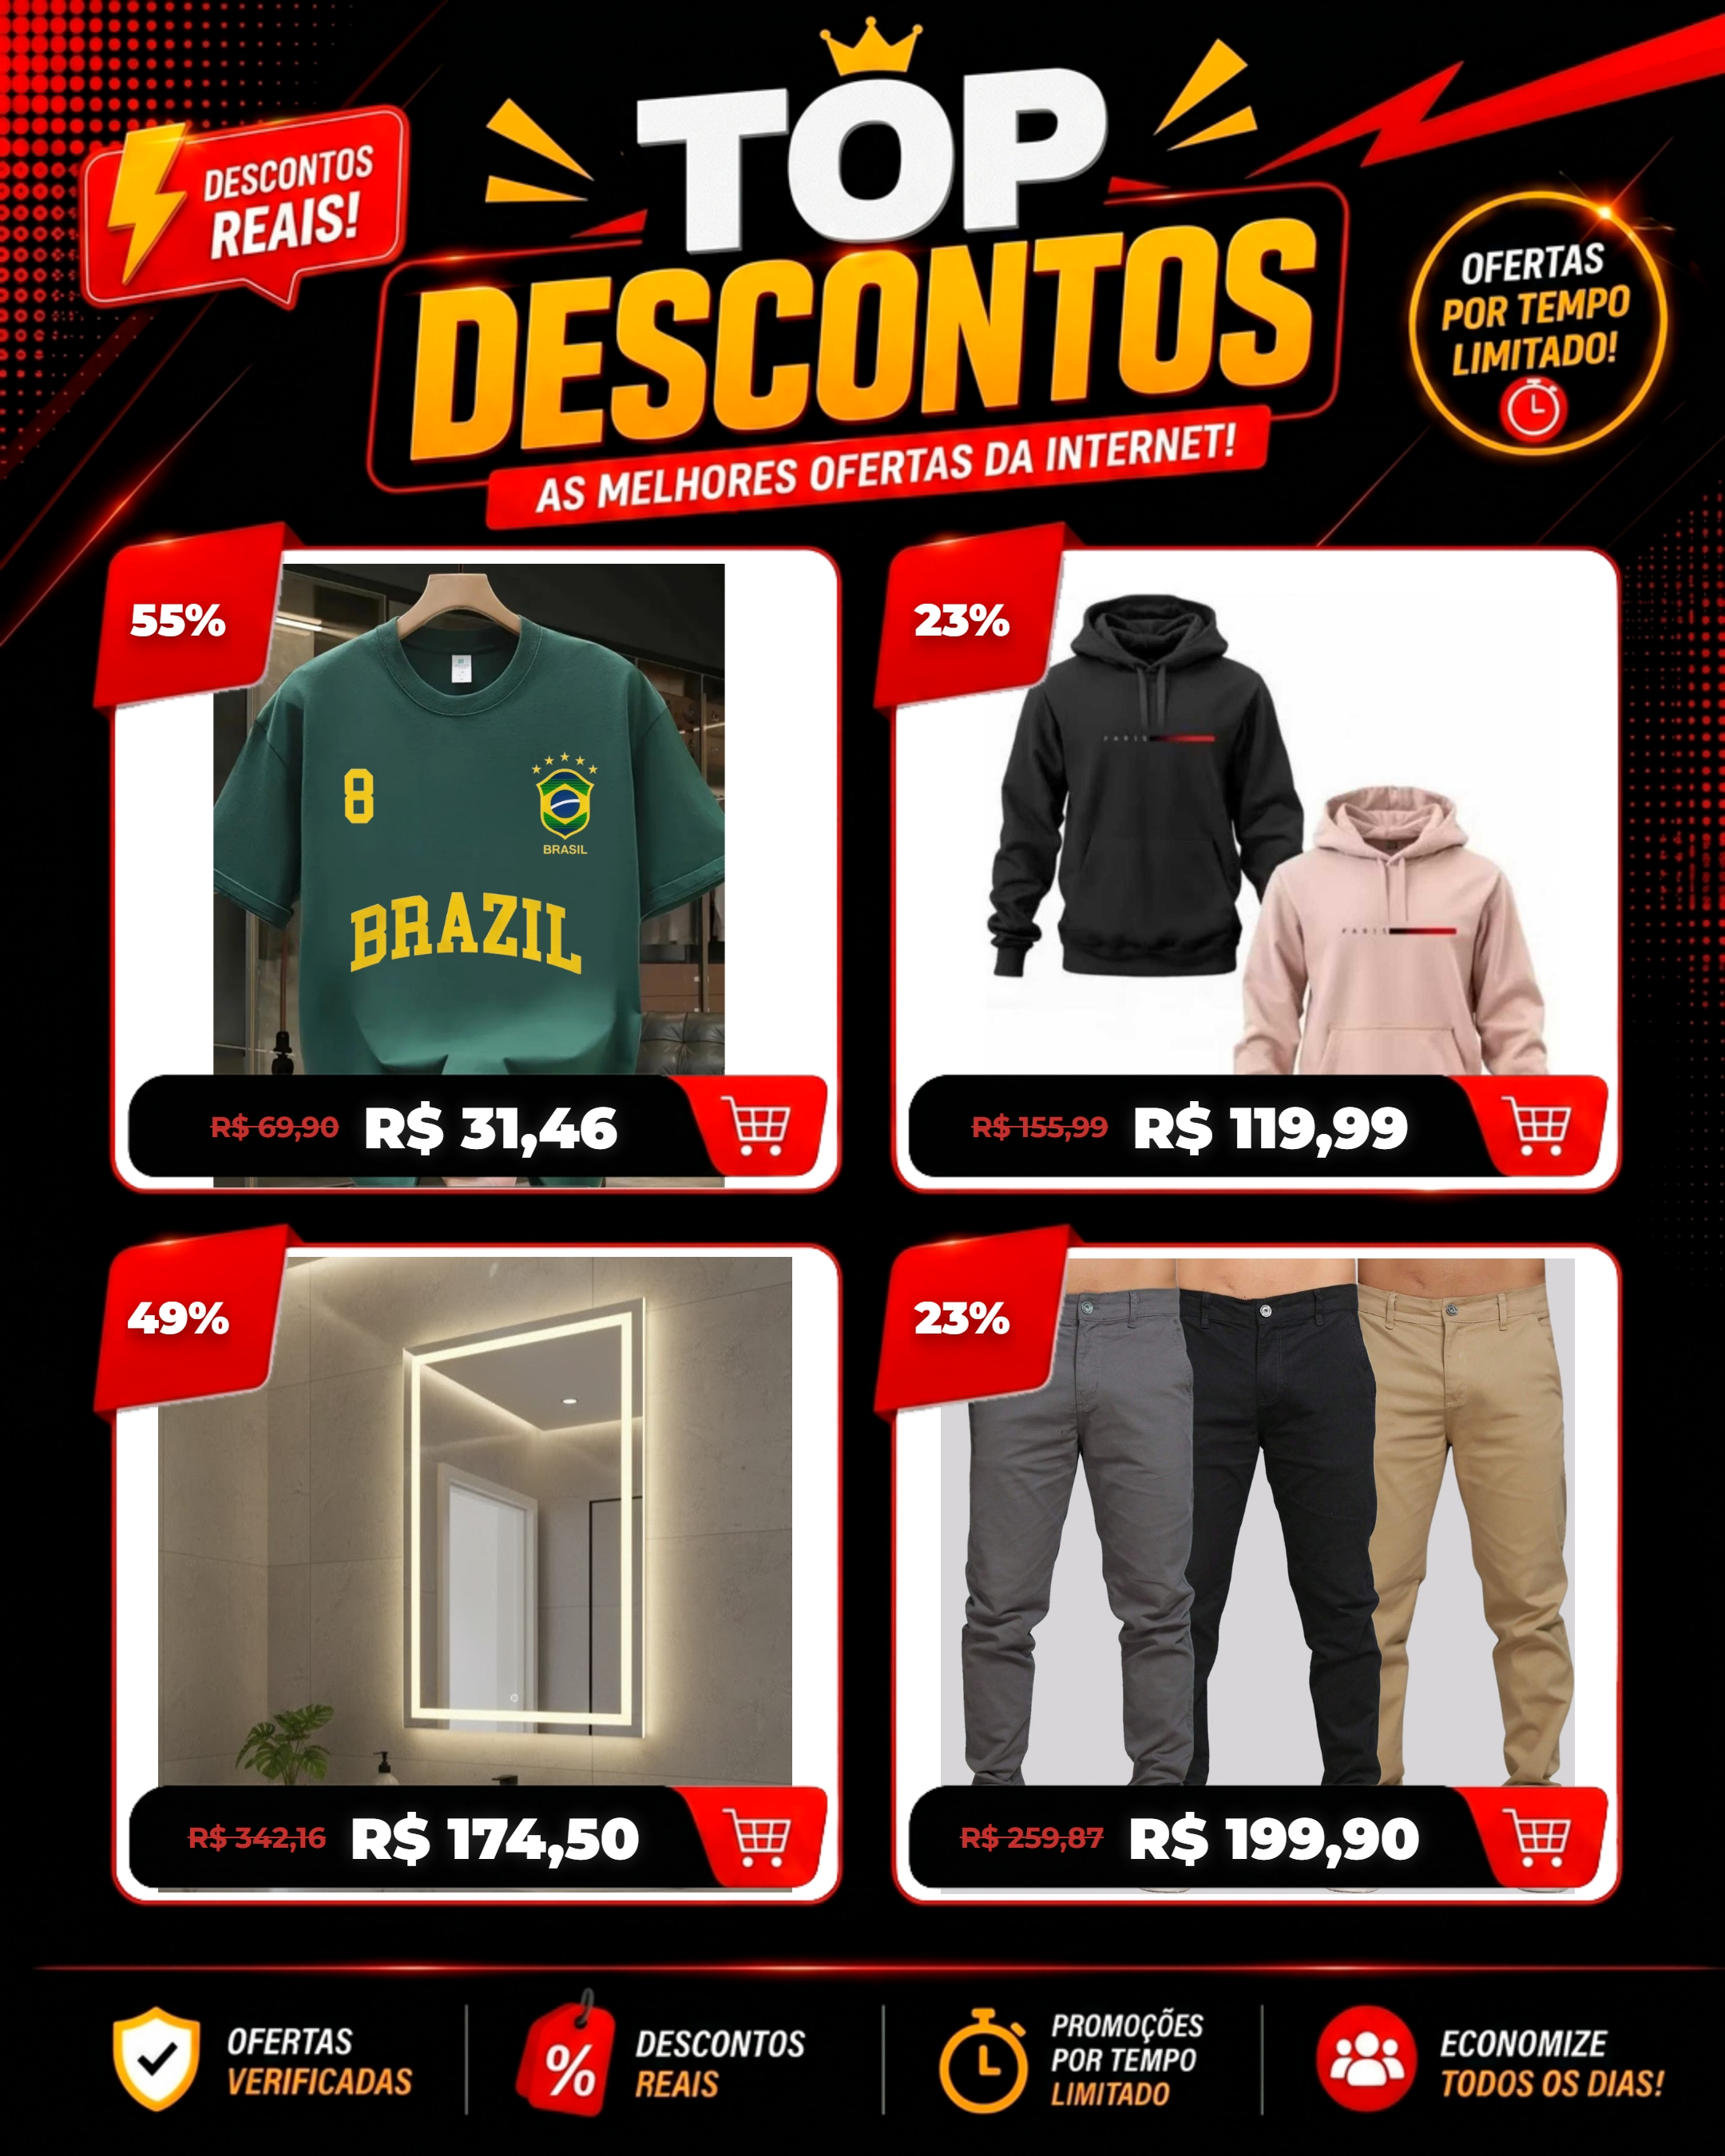
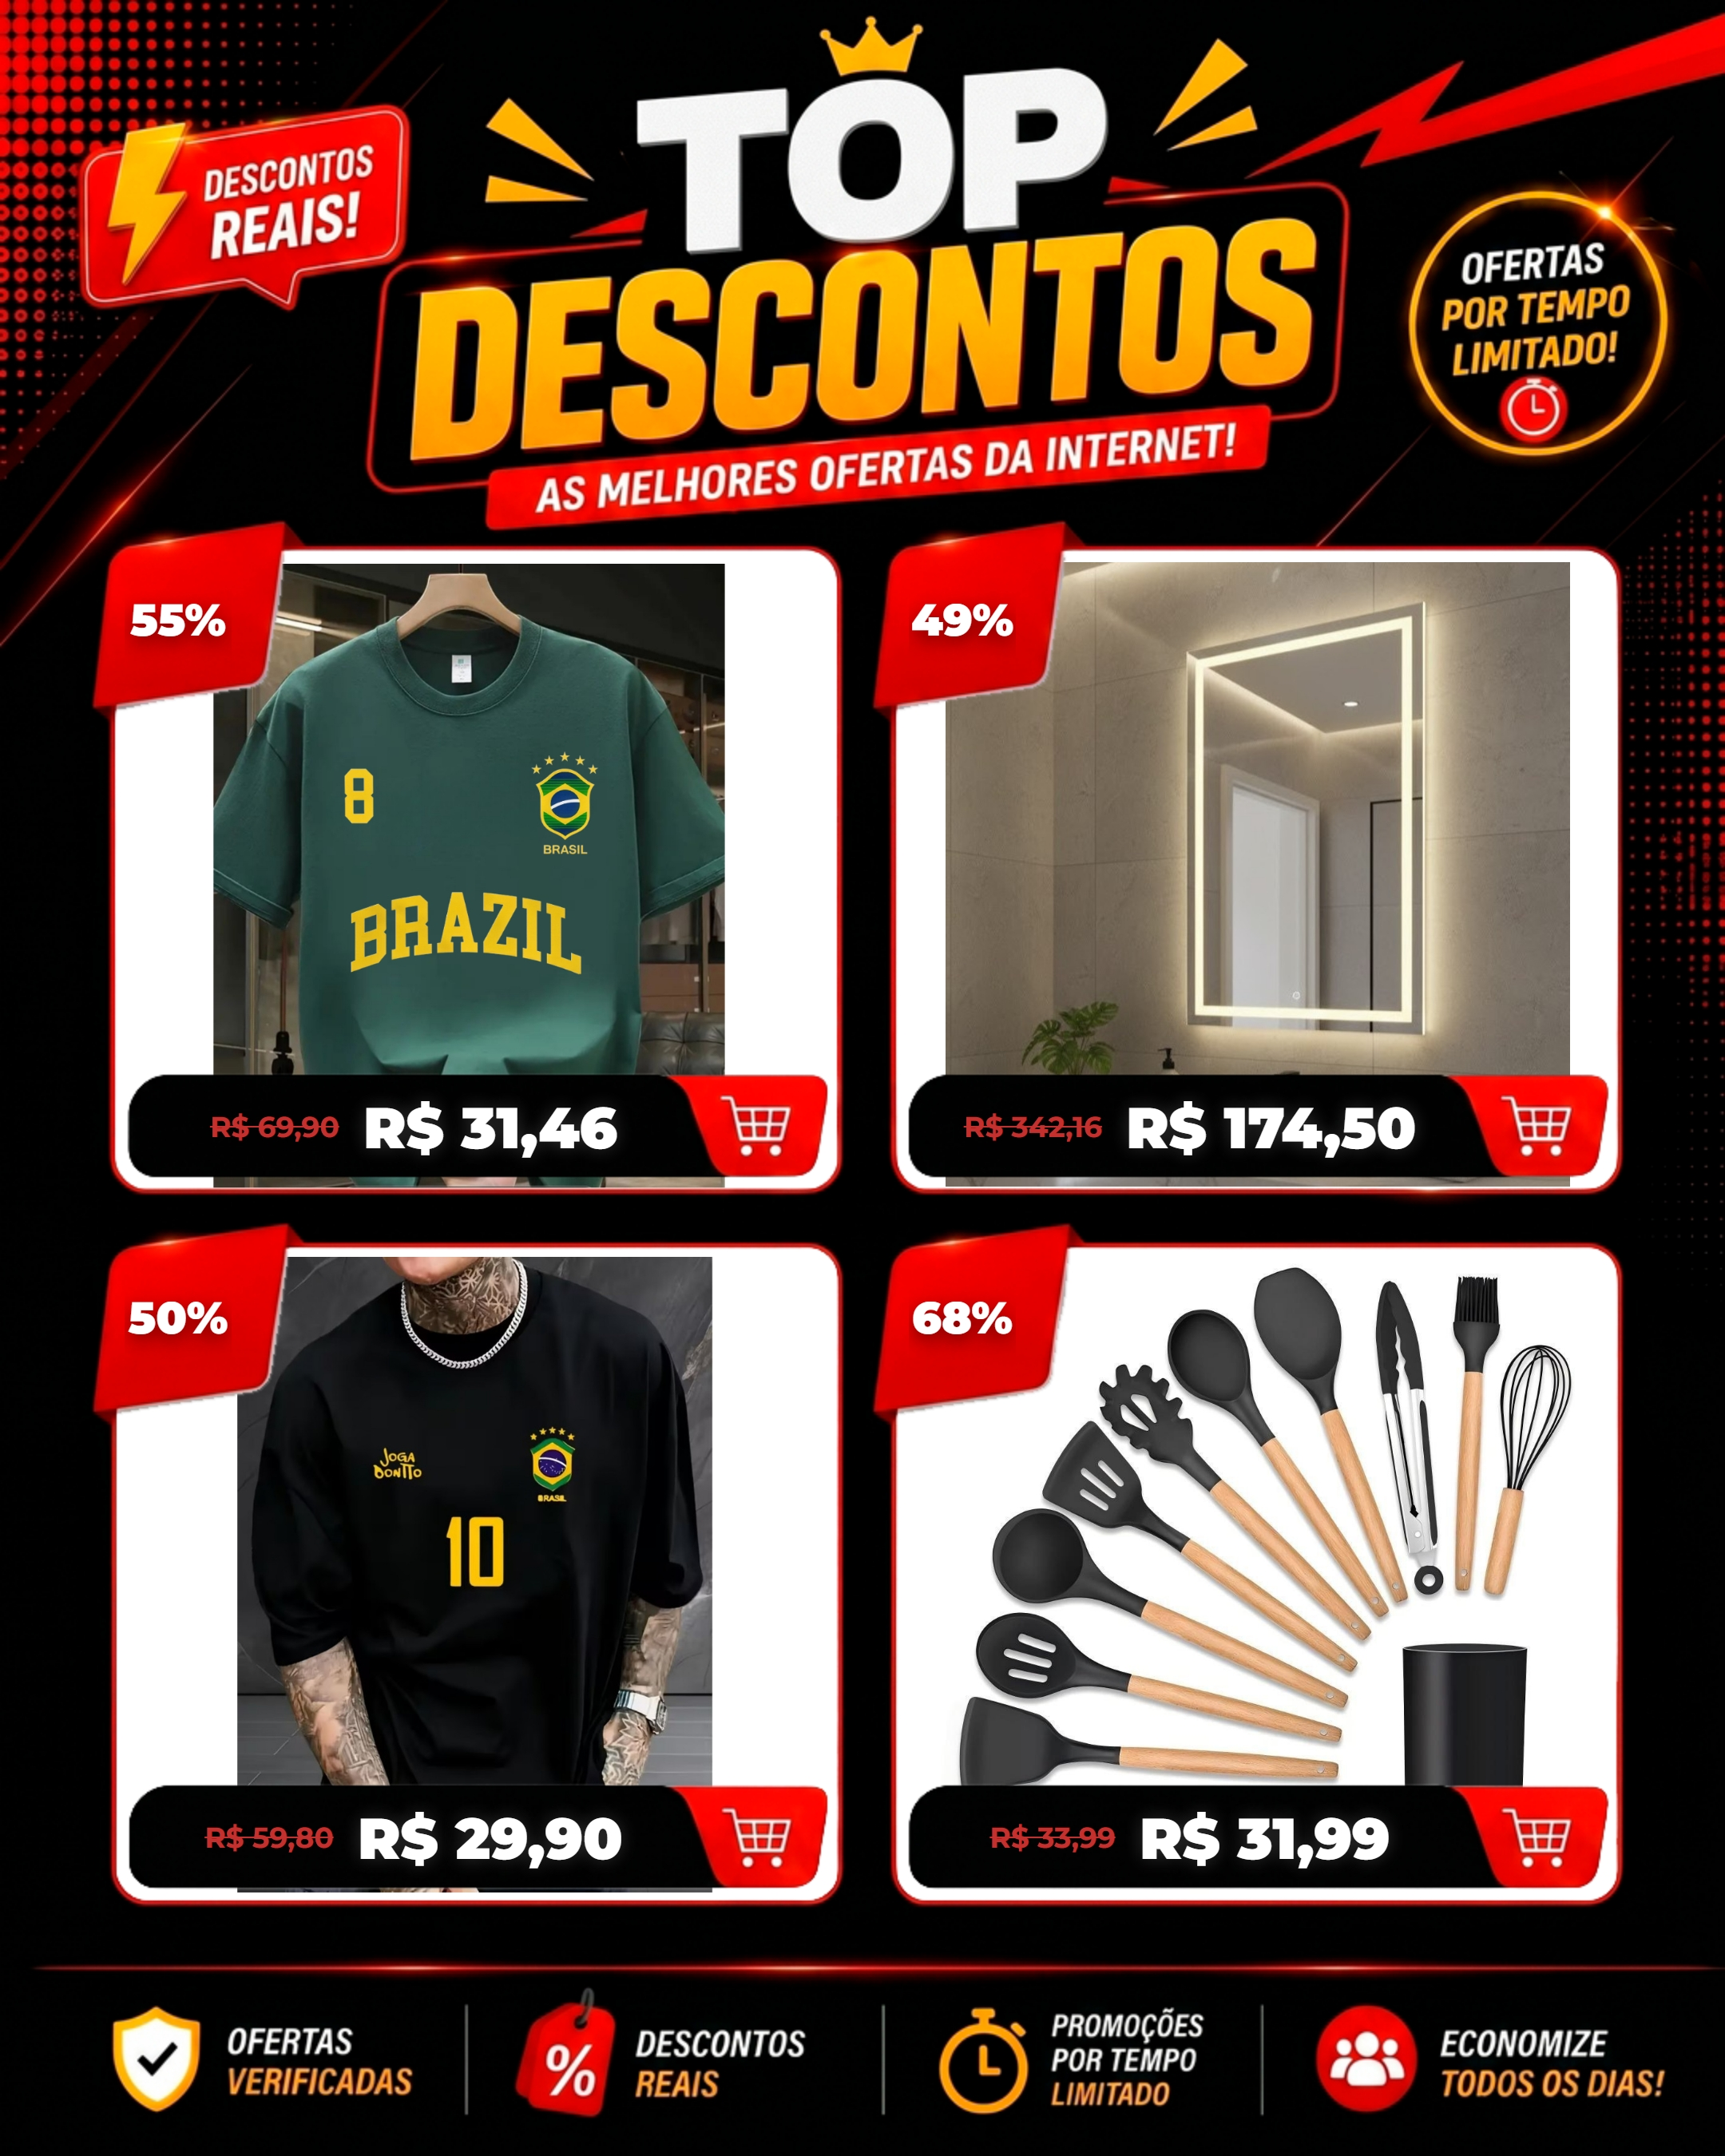
fix: Correção de Bugs

Changed region(s): [[0.5273, 0.2489, 0.9306, 0.8711], [0.062, 0.56, 0.4653, 0.8711]]

diff --git a/src/modules/facebook/service.py b/src/modules/facebook/service.py
@@ -139,15 +139,13 @@ class FacebookPublisherService:
 
         caption = self._build_rich_caption(selected_offers)
 
-        image_data: list[dict[str, str | None]] = []
+        image_data: list[dict[str, str | int | None]] = []
         for offer in selected_offers:
-            old_price = offer.old_price if offer.old_price > 0 else self._estimate_original_price(offer.price)
-            discount = offer.discount if offer.discount > 0 else self._calculate_discount(offer.price)
             image_data.append({
                 "image_url": offer.image_url,
                 "price": self._format_price(offer.price),
-                "old_price": self._format_price(old_price),
-                "discount": discount,
+                "old_price": self._format_price(offer.old_price) if offer.old_price and offer.old_price > 0 else "",
+                "discount": offer.discount or 0,
             })
 
         output_path = f"smart_{template_type}.jpg"
@@ -192,10 +190,10 @@ class FacebookPublisherService:
     ) -> tuple[str, list[ShopeeOffer]]:
 
         # 1. Filtra apenas ofertas que têm desconto real e válido no banco de dados
-        offers_with_discount = [o for o in offers if o.discount is not None and o.discount > 0]
+        offers_with_discount = [o for o in offers if o.discount > 0]
 
         # 2. Regra da Oferta Relâmpago: O produto DEVE ter desconto > 0 E ser classificado como flash
-        first_has_discount = first.discount is not None and first.discount > 0
+        first_has_discount = first.discount > 0
         if first_has_discount and self._is_flash_offer(first):
             return "relampago", [first]
 
@@ -211,20 +209,22 @@ class FacebookPublisherService:
             if offer.period_end_time > datetime.now(timezone.utc):
                 return True
 
-        if offer.discount is not None and offer.discount >= FLASH_DISCOUNT_THRESHOLD:
+        if offer.discount >= FLASH_DISCOUNT_THRESHOLD:
             return True
 
         return False
 
     def _build_rich_caption(self, offers: list[ShopeeOffer]) -> str:
+        if not offers:
+            return ""
+
         lines: list[str] = []
         for i, offer in enumerate(offers, start=1):
             truncated_name = offer.name[:CAPTION_MAX_NAME_LEN]
             if len(offer.name) > CAPTION_MAX_NAME_LEN:
                 truncated_name += "..."
 
-            old_price = offer.old_price if offer.old_price > 0 else self._estimate_original_price(offer.price)
-            old_price_str = self._format_price(old_price)
+            old_price_str = self._format_price(offer.old_price) if offer.old_price and offer.old_price > 0 else ""
             new_price_str = self._format_price(offer.price)
 
             if len(offers) > 1:
@@ -232,7 +232,8 @@ class FacebookPublisherService:
             else:
                 lines.append(f"🛍️ {truncated_name}")
 
-            lines.append(f"❌ De: {old_price_str}")
+            if old_price_str:
+                lines.append(f"❌ De: {old_price_str}")
             lines.append(f"✅ Por: {new_price_str}")
             lines.append(f"🔗 Compre aqui: {offer.short_url}")
             lines.append("")
@@ -245,21 +246,22 @@ class FacebookPublisherService:
 
         return "\n".join(lines)
 
-    async def preview_offer_batch_image(self, batch_size: int = 4, template_type: str = "top_deals") -> str | None:
-        offers = await self._get_next_unpublished_offers(limit=batch_size)
-        if not offers or len(offers) == 0:
-            logger.info("facebook_preview_skipped", extra={"data": {"reason": "no_offers"}})
-            return None
+    async def preview_offer_batch_image(self, batch_size: int = 4, template_type: str = "top_deals") -> str:
+        # Se o preview for de top_deals ou relampago, OBRIGA a buscar produtos com desconto real
+        require_discount = template_type in ["top_deals", "relampago"]
+        offers = await self._get_next_unpublished_offers(limit=batch_size, require_discount=require_discount)
 
-        image_data: list[dict[str, str | None]] = []
+        if not offers or len(offers) == 0:
+            logger.info("facebook_preview_skipped", extra={"data": {"reason": "no_offers_with_discount"}})
+            raise ValueError(f"Nenhum produto válido encontrado no banco para o template '{template_type}'.")
+
+        image_data: list[dict[str, str | int | None]] = []
         for offer in offers:
-            old_price = offer.old_price if offer.old_price > 0 else self._estimate_original_price(offer.price)
-            discount = offer.discount if offer.discount > 0 else self._calculate_discount(offer.price)
             image_data.append({
                 "image_url": offer.image_url,
                 "price": self._format_price(offer.price),
-                "old_price": self._format_price(old_price),
-                "discount": discount,
+                "old_price": self._format_price(offer.old_price) if offer.old_price and offer.old_price > 0 else "",
+                "discount": offer.discount or 0,
             })
 
         output_path = f"preview_{template_type}.jpg"
@@ -270,11 +272,14 @@ class FacebookPublisherService:
         )
         return output_path
 
-    async def _get_next_unpublished_offers(self, limit: int = 4) -> list[ShopeeOffer]:
+    async def _get_next_unpublished_offers(self, limit: int = 4, require_discount: bool = False) -> list[ShopeeOffer]:
+        stmt = select(ShopeeOffer).where(ShopeeOffer.is_published_facebook.is_(False))
+
+        if require_discount:
+            stmt = stmt.where(ShopeeOffer.discount > 0)
+
         stmt = (
-            select(ShopeeOffer)
-            .where(ShopeeOffer.is_published_facebook.is_(False))
-            .order_by(ShopeeOffer.created_at.asc())
+            stmt.order_by(ShopeeOffer.created_at.asc())
             .with_for_update(skip_locked=True)
             .limit(limit)
         )
@@ -302,13 +307,4 @@ class FacebookPublisherService:
         )
         return f"R$ {formatted}"
 
-    def _estimate_original_price(self, current_price: float, markup: float = 0.30) -> float:
-        """Simula o preço original assumindo que era markup% mais caro."""
-        return current_price * (1 + markup)
-
-    def _calculate_discount(self, current_price: float, markup: float = 0.30) -> int:
-        """Simula o desconto assumindo que o preço original era markup% mais caro."""
-        original_price = self._estimate_original_price(current_price, markup)
-        discount = int(((original_price - current_price) / original_price) * 100)
-        return discount
 